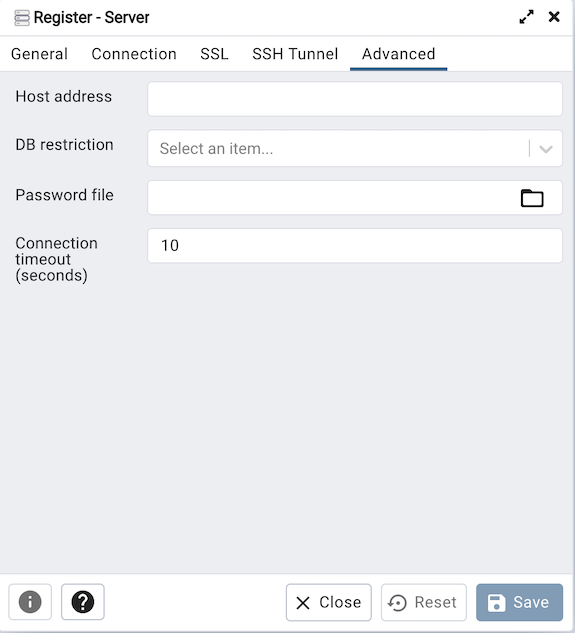
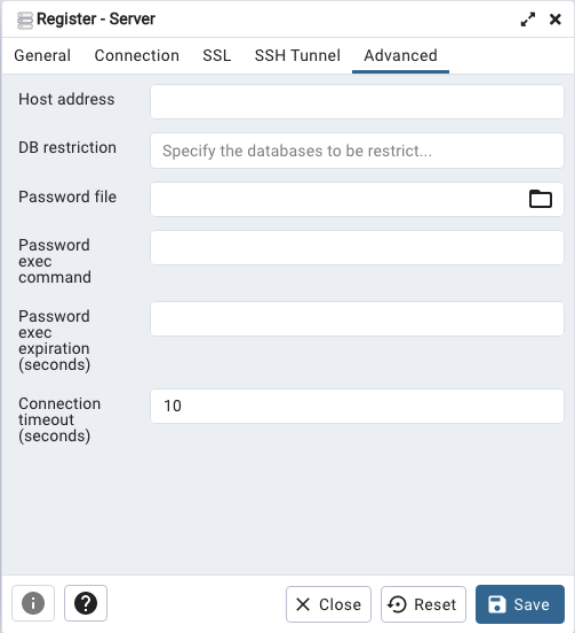
Added support for IAM token based authentication for AWS RDS or Azure DB. #3491

diff --git a/web/pgadmin/browser/server_groups/servers/static/js/server.ui.js b/web/pgadmin/browser/server_groups/servers/static/js/server.ui.js
@@ -39,6 +39,8 @@ export default class ServerSchema extends BaseUISchema {
       save_password: false,
       db_res: [],
       passfile: undefined,
+      passexec: undefined,
+      passexec_expiration: undefined,
       sslcompression: false,
       sslcert: undefined,
       sslkey: undefined,
@@ -424,7 +426,21 @@ export default class ServerSchema extends BaseUISchema {
           let passfile = state.passfile;
           return !_.isUndefined(passfile) && !_.isNull(passfile);
         },
-      },{
+      },
+      {
+        id: 'passexec_cmd', label: gettext('Password exec command'), type: 'text',
+        group: gettext('Advanced'),
+        mode: ['properties', 'edit', 'create'],
+      },
+      {
+        id: 'passexec_expiration', label: gettext('Password exec expiration (seconds)'), type: 'int',
+        group: gettext('Advanced'),
+        mode: ['properties', 'edit', 'create'],
+        visible: function(state) {
+          return !_.isEmpty(state.passexec_cmd);
+        },
+      },
+      {
         id: 'connect_timeout', label: gettext('Connection timeout (seconds)'),
         type: 'int', group: gettext('Advanced'),
         mode: ['properties', 'edit', 'create'], readonly: obj.isConnected,

diff --git a/web/pgadmin/utils/driver/psycopg2/server_manager.py b/web/pgadmin/utils/driver/psycopg2/server_manager.py
@@ -13,6 +13,7 @@ Implementation of ServerManager
 import os
 import datetime
 import config
+import logging
 from flask import current_app, session
 from flask_security import current_user
 from flask_babel import gettext
@@ -27,6 +28,7 @@ from pgadmin.utils.exception import ConnectionLost, SSHTunnelConnectionLost,\
     CryptKeyMissing
 from pgadmin.utils.master_password import get_crypt_key
 from pgadmin.utils.exception import ObjectGone
+from pgadmin.utils.passexec import PasswordExec
 
 if config.SUPPORT_SSH_TUNNEL:
     from sshtunnel import SSHTunnelForwarder, BaseSSHTunnelForwarderError
@@ -77,6 +79,9 @@ class ServerManager(object):
         self.server_types = None
         self.db_res = server.db_res
         self.passfile = server.passfile
+        self.passexec = \
+            PasswordExec(server.passexec_cmd, server.passexec_expiration) \
+            if server.passexec_cmd else None
         self.sslcert = server.sslcert
         self.sslkey = server.sslkey
         self.sslrootcert = server.sslrootcert
@@ -567,20 +572,28 @@ WHERE db.oid = {0}""".format(did))
         try:
             # If authentication method is 1 then it uses identity file
             # and password
+            ssh_logger = None
+            if current_app.debug:
+                ssh_logger = logging.getLogger('sshtunnel')
+                ssh_logger.setLevel(logging.DEBUG)
+                for h in current_app.logger.handlers:
+                    ssh_logger.addHandler(h)
             if self.tunnel_authentication == 1:
                 self.tunnel_object = SSHTunnelForwarder(
                     (self.tunnel_host, int(self.tunnel_port)),
                     ssh_username=self.tunnel_username,
                     ssh_pkey=get_complete_file_path(self.tunnel_identity_file),
                     ssh_private_key_password=tunnel_password,
-                    remote_bind_address=(self.host, self.port)
+                    remote_bind_address=(self.host, self.port),
+                    logger=ssh_logger
                 )
             else:
                 self.tunnel_object = SSHTunnelForwarder(
                     (self.tunnel_host, int(self.tunnel_port)),
                     ssh_username=self.tunnel_username,
                     ssh_password=tunnel_password,
-                    remote_bind_address=(self.host, self.port)
+                    remote_bind_address=(self.host, self.port),
+                    logger=ssh_logger
                 )
             # flag tunnel threads in daemon mode to fix hang issue.
             self.tunnel_object.daemon_forward_servers = True

diff --git a/web/pgadmin/utils/passexec.py b/web/pgadmin/utils/passexec.py
@@ -1,0 +1,65 @@
+
+
+import logging
+import subprocess
+from datetime import datetime, timedelta
+from threading import Lock
+
+from flask import current_app
+
+import config
+
+
+class PasswordExec:
+
+    lock = Lock()
+
+    def __init__(self, cmd, expiration_seconds=None, timeout=60):
+        self.cmd = str(cmd)
+        self.expiration_seconds = int(expiration_seconds) \
+            if expiration_seconds is not None else None
+        self.timeout = int(timeout)
+        self.password = None
+        self.last_result = None
+
+    def get(self):
+        if config.SERVER_MODE:
+            # Arbitrary shell execution on server is a security risk
+            raise NotImplementedError('Passexec not available in server mode')
+        with self.lock:
+            if not self.password or self.is_expired():
+                if not self.cmd:
+                    return None
+                current_app.logger.info(f'Calling passexec')
+                now = datetime.utcnow()
+                try:
+                    p = subprocess.run(
+                        self.cmd,
+                        shell=True,
+                        timeout=self.timeout,
+                        capture_output=True,
+                        text=True,
+                        check=True,
+                    )
+                except subprocess.CalledProcessError as e:
+                    if (e.stderr):
+                        self.create_logger().error(e.stderr)
+                    raise
+
+                current_app.logger.info(f'Passexec completed successfully')
+                self.last_result = now
+                self.password = p.stdout.strip()
+            return self.password
+
+    def is_expired(self):
+        if self.expiration_seconds is None:
+            return False
+        return self.last_result is not None and\
+            datetime.utcnow() - self.last_result \
+            >= timedelta(seconds=self.expiration_seconds)
+
+    def create_logger(self):
+        logger = logging.getLogger('passexec')
+        for h in current_app.logger.handlers:
+            logger.addHandler(h)
+        return logger

diff --git a/web/pgadmin/browser/server_groups/servers/__init__.py b/web/pgadmin/browser/server_groups/servers/__init__.py
@@ -710,6 +710,8 @@ class ServerNode(PGChildNodeView):
             'role': 'role',
             'db_res': 'db_res',
             'passfile': 'passfile',
+            'passexec_cmd': 'passexec_cmd',
+            'passexec_expiration': 'passexec_expiration',
             'sslcert': 'sslcert',
             'sslkey': 'sslkey',
             'sslrootcert': 'sslrootcert',
@@ -978,6 +980,11 @@ class ServerNode(PGChildNodeView):
             'fgcolor': server.fgcolor,
             'db_res': server.db_res.split(',') if server.db_res else None,
             'passfile': server.passfile if server.passfile else None,
+            'passexec_cmd':
+                server.passexec_cmd if server.passexec_cmd else None,
+            'passexec_expiration':
+                server.passexec_expiration if server.passexec_expiration
+                else None,
             'sslcert': sslcert,
             'sslkey': sslkey,
             'sslrootcert': sslrootcert,
@@ -1092,6 +1099,8 @@ class ServerNode(PGChildNodeView):
                 tunnel_identity_file=data.get('tunnel_identity_file', None),
                 shared=data.get('shared', None),
                 passfile=data.get('passfile', None),
+                passexec_cmd=data.get('passexec_cmd', None),
+                passexec_expiration=data.get('passexec_expiration', None),
                 kerberos_conn=1 if data.get('kerberos_conn', False) else 0,
             )
             db.session.add(server)
@@ -1378,7 +1387,9 @@ class ServerNode(PGChildNodeView):
                                        server.kerberos_conn is None):
             conn_passwd = getattr(conn, 'password', None)
             if conn_passwd is None and not server.save_password and \
-                    server.passfile is None and server.service is None:
+                    server.passfile is None and \
+                    server.passexec_cmd is None and \
+                    server.service is None:
                 prompt_password = True
             elif server.passfile and server.passfile != '':
                 passfile = server.passfile

diff --git a/web/pgadmin/model/__init__.py b/web/pgadmin/model/__init__.py
@@ -30,7 +30,7 @@ import uuid
 #
 ##########################################################################
 
-SCHEMA_VERSION = 33
+SCHEMA_VERSION = 34
 
 ##########################################################################
 #
@@ -158,6 +158,8 @@ class Server(db.Model):
     )
     db_res = db.Column(db.Text(), nullable=True)
     passfile = db.Column(db.Text(), nullable=True)
+    passexec_cmd = db.Column(db.Text(), nullable=True)
+    passexec_expiration = db.Column(db.Integer(), nullable=True)
     sslcert = db.Column(db.Text(), nullable=True)
     sslkey = db.Column(db.Text(), nullable=True)
     sslrootcert = db.Column(db.Text(), nullable=True)
@@ -215,6 +217,8 @@ class Server(db.Model):
             "discovery_id": self.discovery_id,
             "db_res": self.db_res,
             "passfile": self.passfile,
+            "passexec_cmd": self.passexec_cmd,
+            "passexec_expiration": self.passexec_expiration,
             "sslcert": self.sslcert,
             "sslkey": self.sslkey,
             "sslrootcert": self.sslrootcert,

diff --git a/web/migrations/versions/f79844e926ae_.py b/web/migrations/versions/f79844e926ae_.py
@@ -1,0 +1,40 @@
+##########################################################################
+#
+# pgAdmin 4 - PostgreSQL Tools
+#
+# Copyright (C) 2013 - 2022, The pgAdmin Development Team
+# This software is released under the PostgreSQL Licence
+#
+##########################################################################
+
+"""Update DB to version 32
+
+Added passexec_cmd and passexec_expiration columns to server configuration.
+
+Revision ID: f79844e926ae
+Revises: 1586db67b98e
+Create Date: 2022-10-11 11:25:00.000000
+
+"""
+from pgadmin.model import db
+
+# revision identifiers, used by Alembic.
+revision = 'f79844e926ae'
+down_revision = '1586db67b98e'
+branch_labels = None
+depends_on = None
+
+
+def upgrade():
+    db.engine.execute("""
+      ALTER TABLE server ADD COLUMN passexec_cmd TEXT(256) null
+    """)
+    db.engine.execute("""
+      ALTER TABLE server ADD COLUMN passexec_expiration INT null
+    """)
+    # ### end Alembic commands ###
+
+
+def downgrade():
+    # pgAdmin only upgrades, downgrade not implemented.
+    pass

diff --git a/web/pgadmin/utils/driver/psycopg2/connection.py b/web/pgadmin/utils/driver/psycopg2/connection.py
@@ -300,6 +300,8 @@ class Connection(BaseConnection):
         # if it's present then we will use it
         if not password and not encpass and not passfile:
             passfile = manager.passfile if manager.passfile else None
+            if manager.passexec:
+                password = manager.passexec.get()
 
         try:
             database = self.db

diff --git a/docs/en_US/server_dialog.rst b/docs/en_US/server_dialog.rst
@@ -189,6 +189,16 @@ Use the fields in the *Advanced* tab to configure a connection:
   (.pgpass). A .pgpass file allows a user to login without providing a password
   when they connect.  For more information, see
   `Section 33.15 of the Postgres documentation <https://www.postgresql.org/docs/current/libpq-pgpass.html>`_.
+* Use the *Password exec command* field to specify a shell command to be executed
+  to retrieve a password to be used for SQL authentication. The ``stdout`` of the
+  command will be used as the SQL password. This may be useful when the password
+  should be generated as a transient authorization token instead of providing a
+  password when connecting in `PAM authentication <https://www.postgresql.org/docs/current/auth-pam.html>`_ scenarios.
+* Use the *Password exec expiration* field to specify a maximum age, in seconds,
+  of the password generated with a *Password exec command*. If not specified,
+  the password will not expire until your pgAdmin session does.
+  Zero means the command will be executed for each new connection or reconnection that is made.
+  If the generated password is not valid indefinitely, set this value to slightly before it will expire.
 * Use the *Connection timeout* field to specify the maximum wait for connection,
   in seconds. Zero or not specified means wait indefinitely. It is not
   recommended to use a timeout of less than 2 seconds. By default it is set to
@@ -196,6 +206,8 @@ Use the fields in the *Advanced* tab to configure a connection:
 
 .. note:: The password file option is only supported when pgAdmin is using libpq
     v10.0 or later to connect to the server.
+
+.. note:: The Password exec option is only supported when pgAdmin is run in desktop mode.
 
 * Click the *Save* button to save your work.
 * Click the *Close* button to exit without saving your work.
